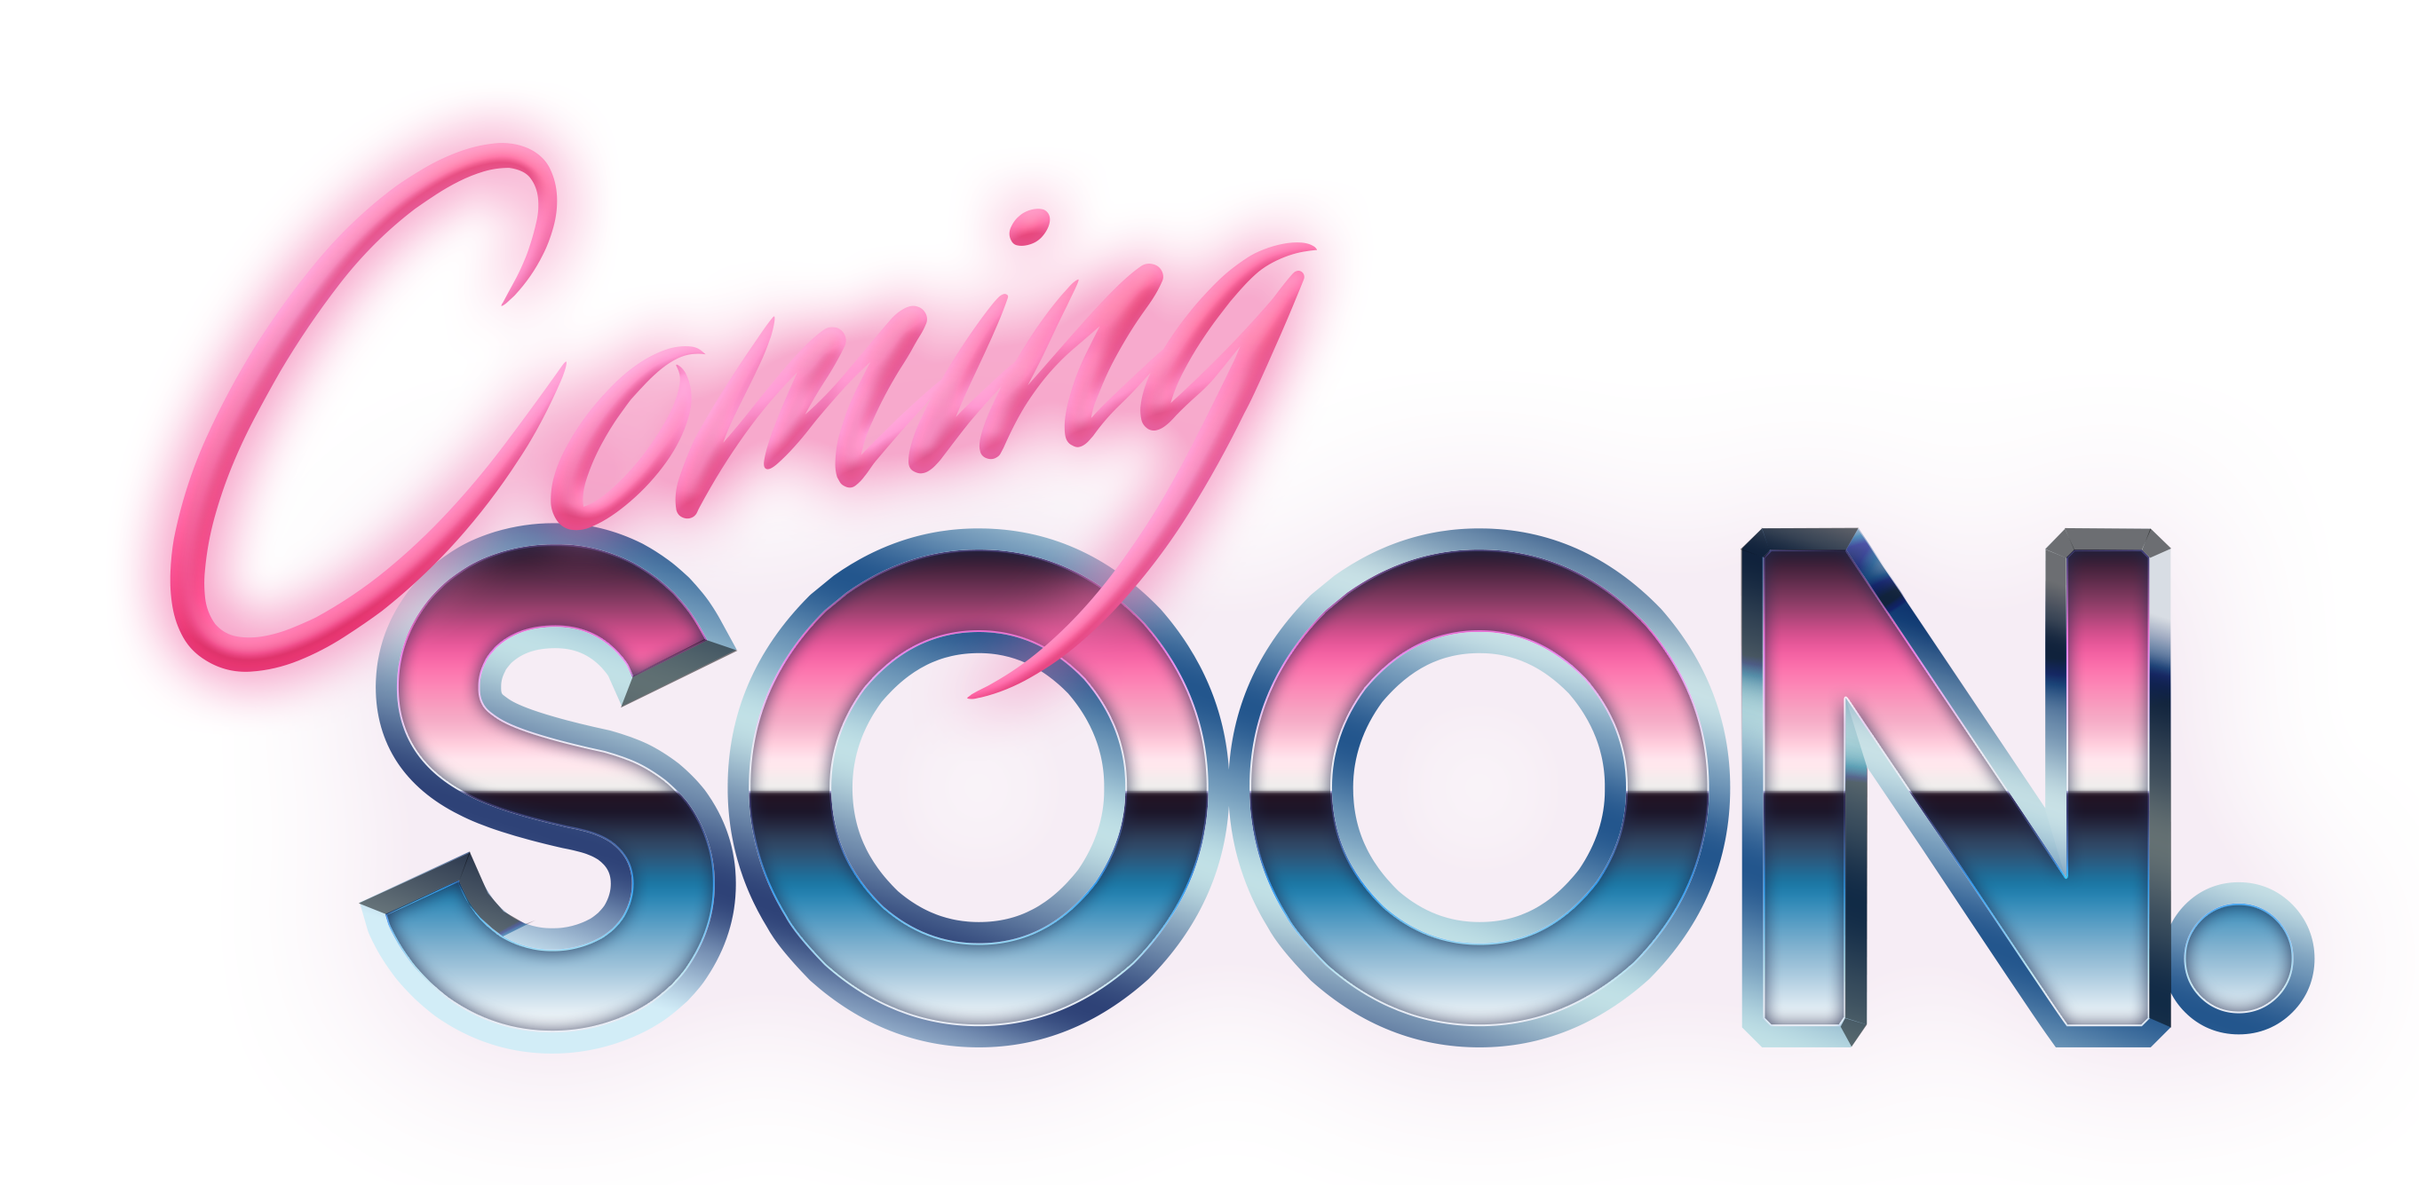
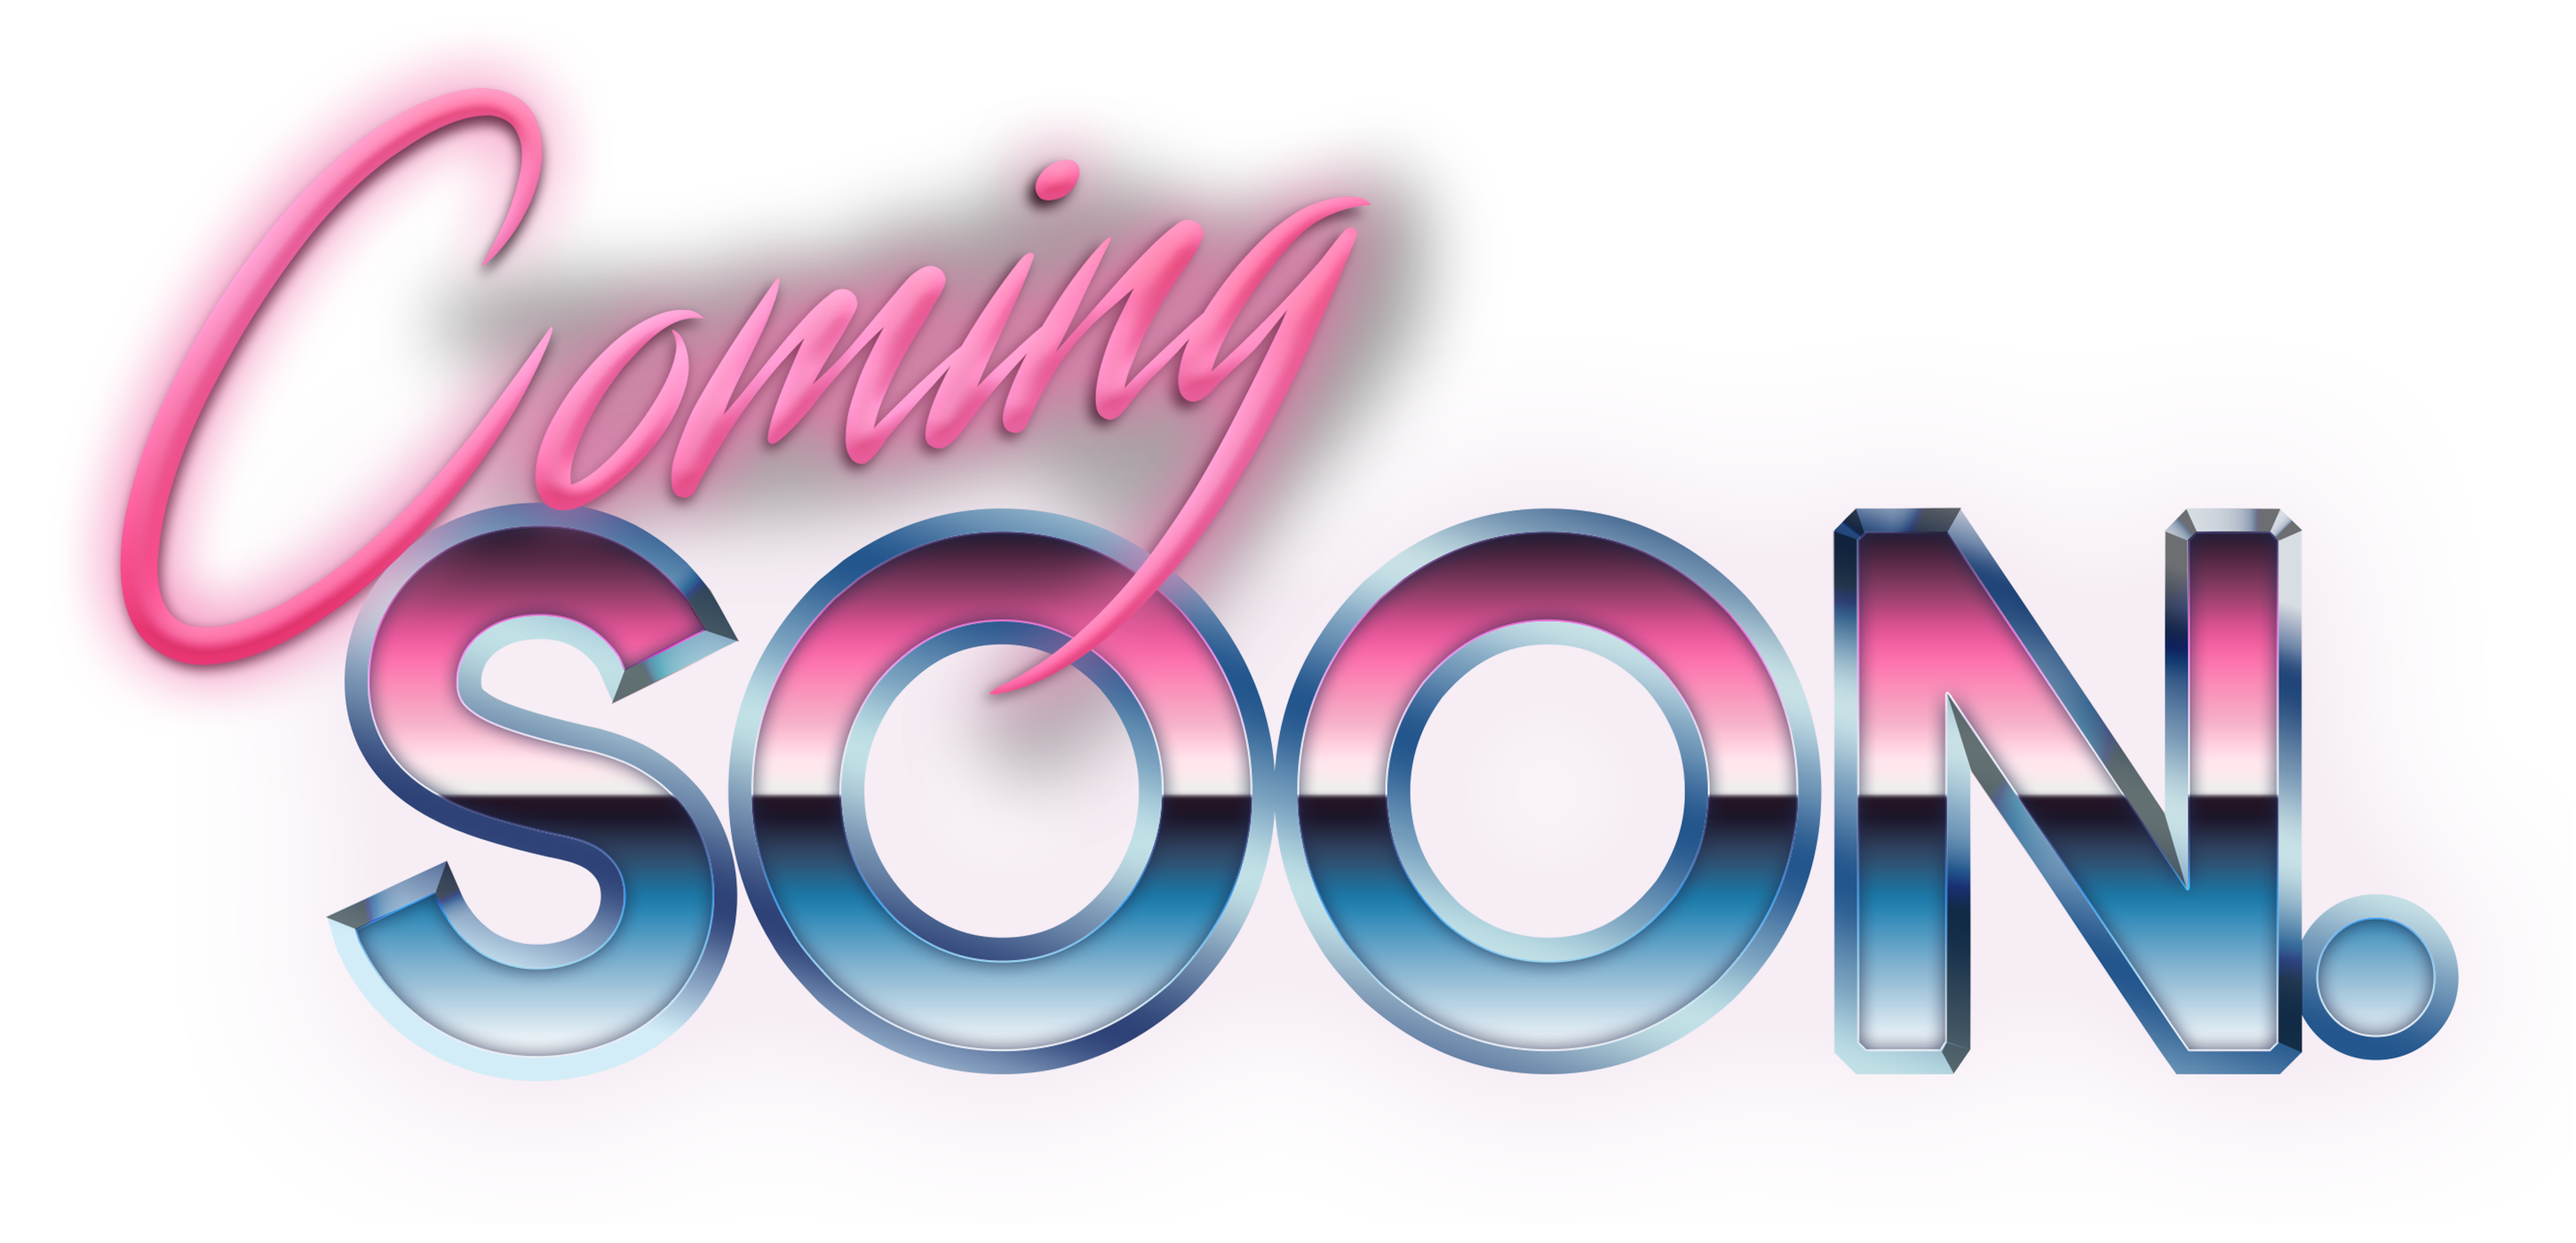
Swapped image and text

diff --git a/index.html b/index.html
@@ -109,13 +109,13 @@
   .pcb-container {
     position: relative;
     width: 100%;
-    max-width: 450px;
-    height: 450px;
+    max-width: 850px;
+    max-height: 850px;
     display: flex;
     justify-content: center;
     align-items: center;
-    margin-top: -40px;
-    margin-bottom: -90px;
+    margin-top: -50px;
+    margin-bottom: -200px;
     cursor: pointer;
     z-index: 1;
   }
@@ -124,7 +124,7 @@
   .pcb-container::after {
     content: 'What\'s this?? (Click to learn more!)';
     position: absolute;
-    bottom: 120%;
+    bottom: 2%;
     left: 50%;
     transform: translateX(-50%);
     padding: 0.5rem 0.5rem;
@@ -138,7 +138,6 @@
     visibility: hidden;
     transition: all 0.3s ease;
     backdrop-filter: blur(5px);
-    margin-bottom: -400px;
   }
 
   .pcb-container:hover::after {
@@ -152,7 +151,7 @@
     font-weight: bold;
     position: relative;
     width: 100%;
-    max-width: 1000px;
+    max-width: 700px;
     display: flex;
     justify-content: center;
     align-items: center;
@@ -163,8 +162,9 @@
     font-family: 'Geomatik', sans-serif;
     text-align: center;
     padding: 0 1rem;
-    margin-bottom: -30px;
-    margin-top: -20px;
+    margin-top: -100px;
+    margin-bottom: -10px;
+    z-index: 2;
   }
   
   .pcb {
@@ -287,23 +287,27 @@
         <a href="https://mr.industries/">about</a>
         <a href="https://mr.industries/">store</a>
         <a href="https://github.com/Mister-Industries/iotaCore" class="github-link">
-          <svg xmlns="http://www.w3.org/2000/svg" width="24" height="24" viewBox="0 0 24 24" fill="none" stroke="currentColor" stroke-width="2" stroke-linecap="round" stroke-linejoin="round"><path d="M9 19c-5 1.5-5-2.5-7-3m14 6v-3.87a3.37 3.37 0 0 0-.94-2.61c3.14-.35 6.44-1.54 6.44-7A5.44 5.44 0 0 0 20 4.77 5.07 5.07 0 0 0 19.91 1S18.73.65 16 2.48a13.38 13.38 0 0 0-7 0C6.27.65 5.09 1 5.09 1A5.07 5.07 0 0 0 5 4.77a5.44 5.44 0 0 0-1.5 3.78c0 5.42 3.3 6.61 6.44 7A3.37 3.37 0 0 0 9 18.13V22"></path></svg>
+          <svg xmlns="http://www.w3.org/2000/svg" width="20" height="20" viewBox="0 0 24 24" fill="none" stroke="currentColor" stroke-width="2" stroke-linecap="round" stroke-linejoin="round"><path d="M9 19c-5 1.5-5-2.5-7-3m14 6v-3.87a3.37 3.37 0 0 0-.94-2.61c3.14-.35 6.44-1.54 6.44-7A5.44 5.44 0 0 0 20 4.77 5.07 5.07 0 0 0 19.91 1S18.73.65 16 2.48a13.38 13.38 0 0 0-7 0C6.27.65 5.09 1 5.09 1A5.07 5.07 0 0 0 5 4.77a5.44 5.44 0 0 0-1.5 3.78c0 5.42 3.3 6.61 6.44 7A3.37 3.37 0 0 0 9 18.13V22"></path></svg>
         </a>
         <a href="https://discord.gg/AccV9wfX" class="github-link">
-          <svg xmlns="http://www.w3.org/2000/svg" width="24" height="24" viewBox="0 0 24 24" fill="none" stroke="currentColor" stroke-width="2" stroke-linecap="round" stroke-linejoin="round"><path d="M9 19c-5 1.5-5-2.5-7-3m14 6v-3.87a3.37 3.37 0 0 0-.94-2.61c3.14-.35 6.44-1.54 6.44-7A5.44 5.44 0 0 0 20 4.77 5.07 5.07 0 0 0 19.91 1S18.73.65 16 2.48a13.38 13.38 0 0 0-7 0C6.27.65 5.09 1 5.09 1A5.07 5.07 0 0 0 5 4.77a5.44 5.44 0 0 0-1.5 3.78c0 5.42 3.3 6.61 6.44 7A3.37 3.37 0 0 0 9 18.13V22"></path></svg>
+          <svg xmlns="http://www.w3.org/2000/svg" width="20" height="20" fill="currentColor" class="bi bi-discord" viewBox="0 0 16 16">
+            <path d="M13.545 2.907a13.2 13.2 0 0 0-3.257-1.011.05.05 0 0 0-.052.025c-.141.25-.297.577-.406.833a12.2 12.2 0 0 0-3.658 0 8 8 0 0 0-.412-.833.05.05 0 0 0-.052-.025c-1.125.194-2.22.534-3.257 1.011a.04.04 0 0 0-.021.018C.356 6.024-.213 9.047.066 12.032q.003.022.021.037a13.3 13.3 0 0 0 3.995 2.02.05.05 0 0 0 .056-.019q.463-.63.818-1.329a.05.05 0 0 0-.01-.059l-.018-.011a9 9 0 0 1-1.248-.595.05.05 0 0 1-.02-.066l.015-.019q.127-.095.248-.195a.05.05 0 0 1 .051-.007c2.619 1.196 5.454 1.196 8.041 0a.05.05 0 0 1 .053.007q.121.1.248.195a.05.05 0 0 1-.004.085 8 8 0 0 1-1.249.594.05.05 0 0 0-.03.03.05.05 0 0 0 .003.041c.24.465.515.909.817 1.329a.05.05 0 0 0 .056.019 13.2 13.2 0 0 0 4.001-2.02.05.05 0 0 0 .021-.037c.334-3.451-.559-6.449-2.366-9.106a.03.03 0 0 0-.02-.019m-8.198 7.307c-.789 0-1.438-.724-1.438-1.612s.637-1.613 1.438-1.613c.807 0 1.45.73 1.438 1.613 0 .888-.637 1.612-1.438 1.612m5.316 0c-.788 0-1.438-.724-1.438-1.612s.637-1.613 1.438-1.613c.807 0 1.451.73 1.438 1.613 0 .888-.631 1.612-1.438 1.612"/>
+          </svg>
         </a>
       </div>
     </nav>
   
     <main>
-      <div class="coming-soon">
-        <img class="coming-soon" src="ComingSoon.png" alt="PCB Device">
-      </div>
+      
 
       <div class="pcb-container">
         <a href="https://github.com/Mister-Industries/iotaCore" target="_blank">
           <img class="pcb" src="pcb.png" alt="PCB Device">
         </a>
+      </div>
+
+      <div class="coming-soon">
+        <img class="coming-soon" src="ComingSoon.png" alt="PCB Device">
       </div>
       
       <div class="email-signup">
